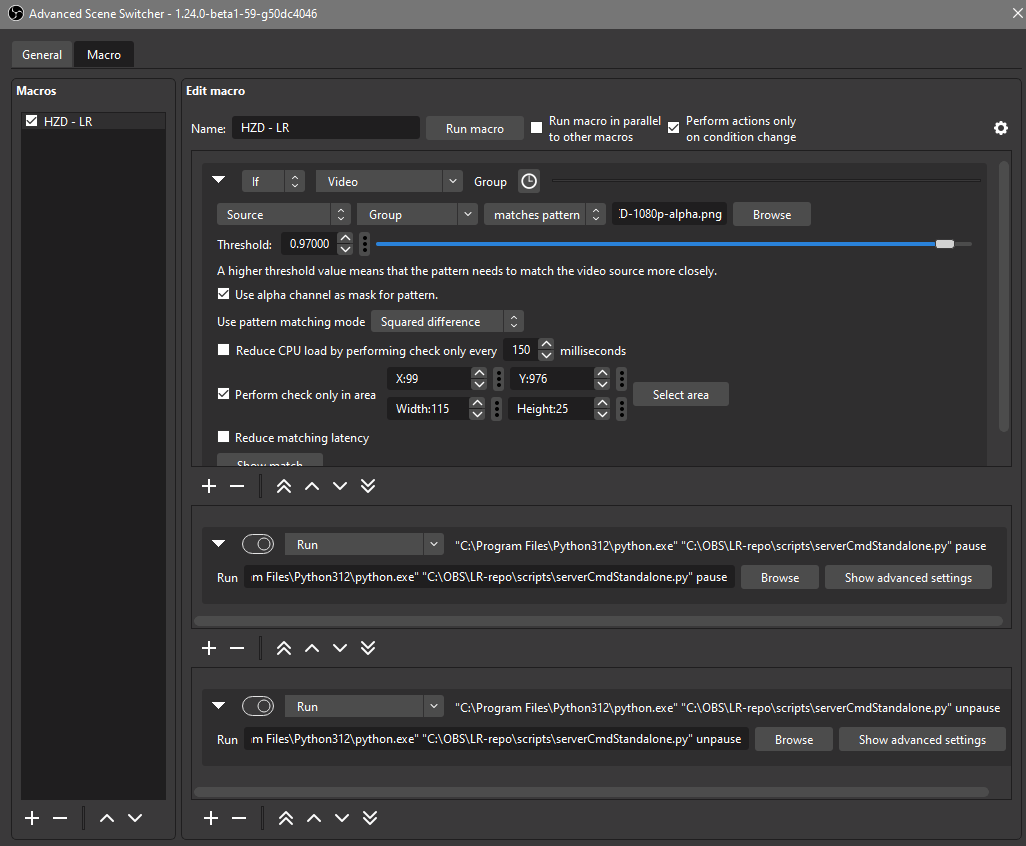
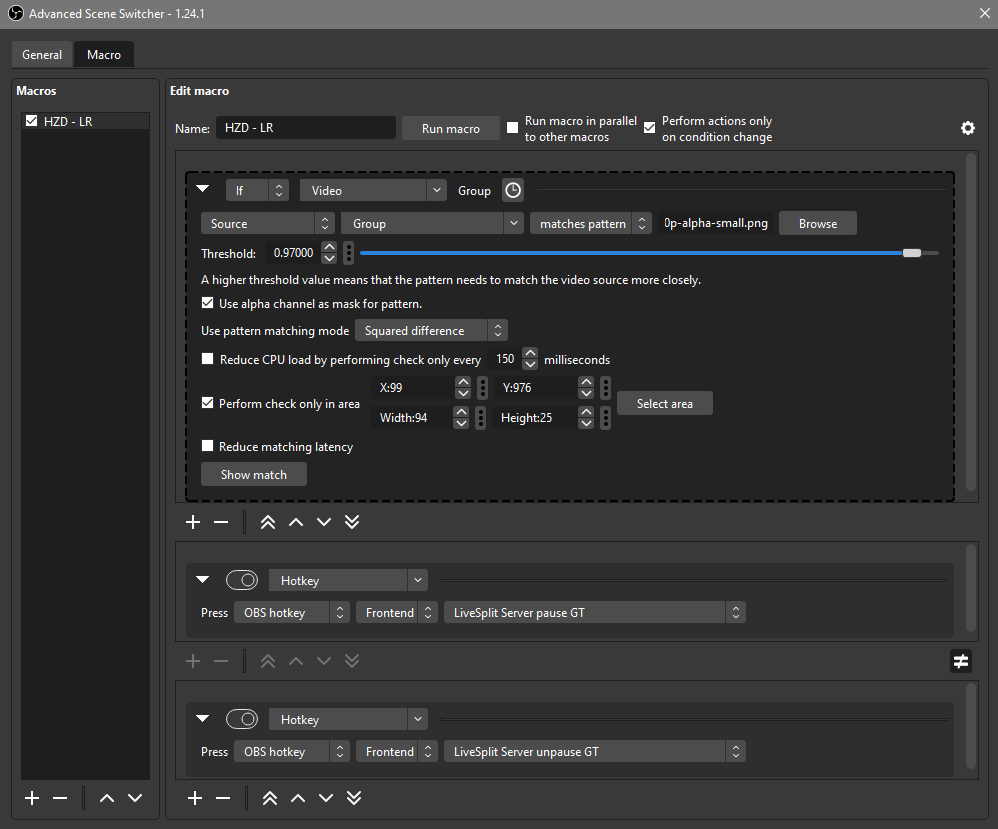
Update README

diff --git a/README.md b/README.md
@@ -8,60 +8,110 @@ The current rules for the loads that count can be found [here](https://www.speed
 
 Based on previous work on the load remover by [Blegas78](https://github.com/blegas78/autoSplitters) and the [description in the SceneSwitcher wiki](https://github.com/WarmUpTill/SceneSwitcher/wiki/Activate-overlay-to-hide-parts-of-the-screen).
 
-Demo of the load remover in action on all removable loads: 
-[Youtube Video](https://youtu.be/XvhfdMjjPMk)
+## Images
+
+The following table shows the available comparison images and their area settings
+
+| Resolution | Language | X | Y | Width | Height | Filename |
+|---|---|---|---|---|---|---|
+| 1080p | English | 99 | 976 | 94 | 25 | `HZD-1080p-alpha-small.png` |
+| 1080p | English | 99 | 976 | 115 | 25 | `HZD-1080p-alpha.png` |
 
 ## Prerequistites
 * OBS
 * [Advanced Scene Switcher Plugin](https://github.com/WarmUpTill/SceneSwitcher/) (ideally 1.24 or later)
-* Live Split layout with the LiveSplit Server component
-* Some sort of python needs to be installed on the system. The setup below will show a system-wide installation of [Python](https://www.python.org/downloads/) 3.12
+* LiveSplit layout with the [LiveSplit Server](https://github.com/LiveSplit/LiveSplit.Server#install) component
+* [Python 3.11](https://www.python.org/downloads/windows/) has to be installed (For OBS 29 Python 3.12 does not work), on a path that does not contain spaces.
 
 ## Setup
 Advanced Scene Switcher 1.24 and later contains an `else` branch in the macros, which is used here. If that is not available, another macro with the negated condition has to be added (doubling the performance impact) to resume the timer.
 
-The setup is described for a 1080p source. Scaled sources are possible when they are fed through an extra Scene or Group; the video above is using the PC version of HZD on 1440p scaled to the canvas in a group
+The setup is described for a 1080p source. Scaled sources are possible when they are fed through an extra Scene or Group.
 
+Download the latest Zip archive from the Releases section (or clone the repository).
+
+### Python OBS Script
+
+[OBS documentation on this part](https://obsproject.com/wiki/Getting-Started-With-OBS-Scripting)
+* In OBS go to `Tools` -> `Scripts`
+* Go to the `Python Settings` tab
+* Enter the path to your Python installation (where the Python executable is, don't include the executable itself)
+
+Now for the script itself:
+* Go back to the `Scripts` tab
+* Load the script `socketWrapper.py` that is found in the `scripts` directory
+* Adjust settings if needed (not available in current state, default settings hardcoded)
+* Check the OBS Hotkeys under `File` -> `Settings` -> `Hotkeys`, they should list `LiveSplit Server pause GT` and `LiveSplit Server unpause GT` at the end of the first section. If they are, the script is installed correctly.
+
+You don't need to assign any hotkeys, but you could do so temporarily to check if the script is connected to LiveSplit (make sure you have the LiveSplit Server component started). The hotkeys you set get removed when you reload the script.
+
+### Advanced Scene Switcher
+
+#### General
 * Set the advanced Scene Switcher interval to the lowest possible (50ms)
+
+The LiveSplit Server component has to be started __manually__ at every LiveSplit launch. (At least for now, maybe another DLL with auto-launch will be provided in the future)
+
+The macro can be set up automatically with most settings set or completely manually.
+
+#### Macro import:
+* Right click on the macro section and select `Import`
+* Paste the string from [resources/macro-import.txt](resources/macro-import.txt) into the box
+* Adjust the image source according to your setup
+* Adjust the path to the image 
+
+#### Macro manual setup:
 * Add a new macro
 * Condition:
-  * Type: Video, matches pattern
-  * Choose `HZD-1080p-alpha.png`
+  * Ensure that `Perform actions only on condition change` is checked
+  * Type: Video
+  * Select the Source or Scene that shows the gameplay
+  * Select `matches pattern` as mode
+  * Choose `HZD-1080p-alpha-small.png` as reference
   * Threshold between `0.92` and `0.97`
   * Check the `Use alpha channel as mask` checkbox
   * Pattern matching method `Squared difference`
-  * Check area (X, Y, W, H): `99,976,115,25`
-  * Check `Reduce matching latency`
+  * Check area (X, Y, W, H): `99,976,94,25`
+  * Optional:
+    * Try enabling the reduced latency mode, but performance might be too low then. Monitor the OBS log whether there are many entries like 
 * Action branch 1:
-  * Type: Run
-  * Entry: `"<path-to-python-exe>" "<path-to-scripts>\serverCmdStandalone.py" pause`
+  * Type: Hotkey
+  * Select the dropdowns to show:
+    * `OBS hotkey`
+    * `Frontend`
+    * `LiveSplit Server pause GT`
 * Action branch 2 (else):
-  * Type: Run
-  * Entry: `"<path-to-python-exe>" "<path-to-scripts>\serverCmdStandalone.py" unpause`
+  * Type: Hotkey
+  * Select the dropdowns to show:
+    * `OBS hotkey`
+    * `Frontend`
+    * `LiveSplit Server unpause GT`
 
-The final macro can be seen here (apart from the reduced matching latency):
+The final macro can be seen here:
 ![macro setup](./resources/adv-setup.png)
-
-The LiveSplit Server component has to be started __manually__ at every LiveSplit launch. (At least for now, maybe another DLL with autolaunch will be provided in the future)
 
 ## Generate own comparison image
 
 Each text language, resolution and aspect ratio need its own comparison image.
 
-To create one for your workflow follow these instructions (and create a pullrequest here if you want):
+To create one for your workflow follow these instructions (and create a Pull Request here if you want):
 
 * Capture a lossless (png) screenshot of the default (FT, RFS) loading screen from your source in the resolution you want to apply the load remover later
-* Crop the `Loading...` section from the screenshot, this crop will also give the area
-* Open the crop in GIMP (or something else) and use the wand tool to select the surrounding and the inside of `O` s are make that fully transparent
+* Crop the `Loading` section from the screenshot (without the trailing dots), this crop will also give the area --- Default Paint is surprising good for that as it will 
+* Open the crop in GIMP (or something else) and use the wand tool to select the surrounding and the inside of `O` s are and make that fully transparent
+* Save the image as PNG with alpha layer
+
+## Troubleshooting
+
+TBD
 
 ## Improvement potential
 
-* LS-Server:
-  * Make it a websocket server so that the websocket actions from the Scene Switcher can be used
-  * Visual indication in the layout similar to the global hotkey indication of
-    1. whether the server is running
-    2. whether the expected number of clients are connected
-* Python script for OBS directly which keeps the socket connection open and works with OBS internal hotkeys for the Scene Switcher
+* LSS: Make it a websocket server so that the websocket actions from the Scene Switcher can be used
+* Visual indication in the layout similar to the global hotkey indication of
+  1. whether the server is running
+  2. whether the expected number of clients are connected
+* ✔ Python script for OBS directly which keeps the socket connection open and works with OBS internal hotkeys for the game time toggle
 
 ## License
 
